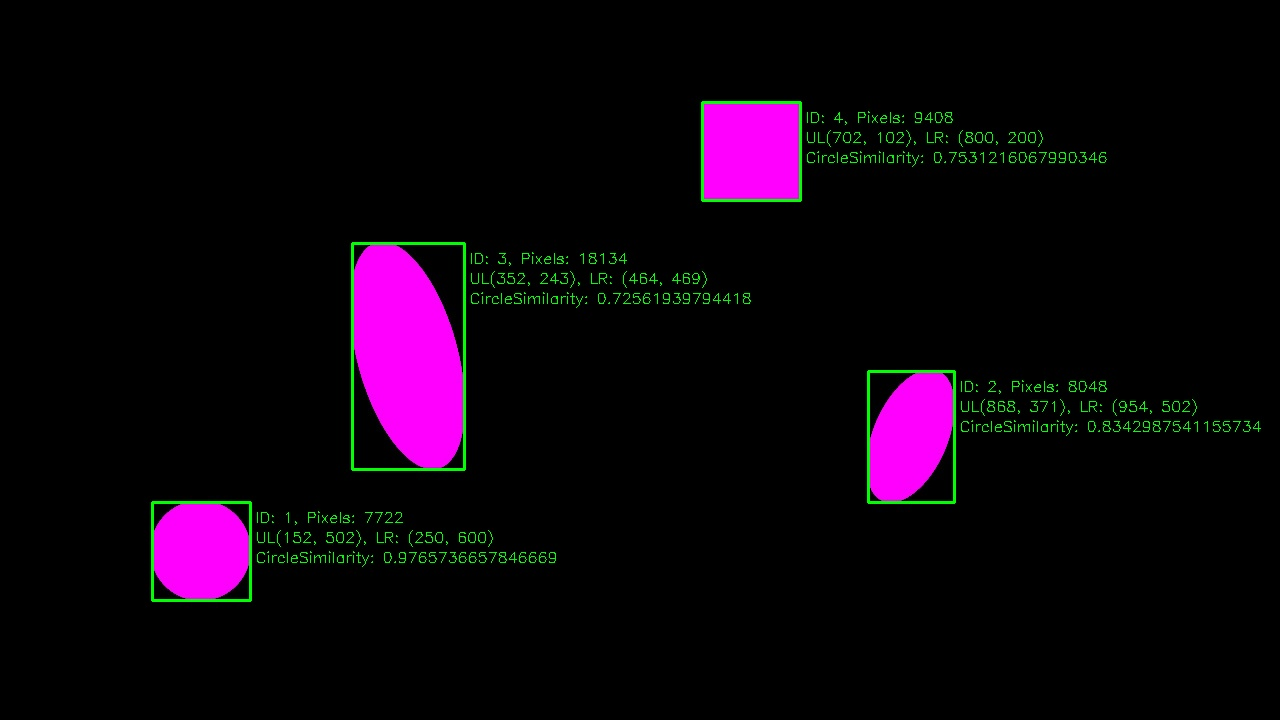
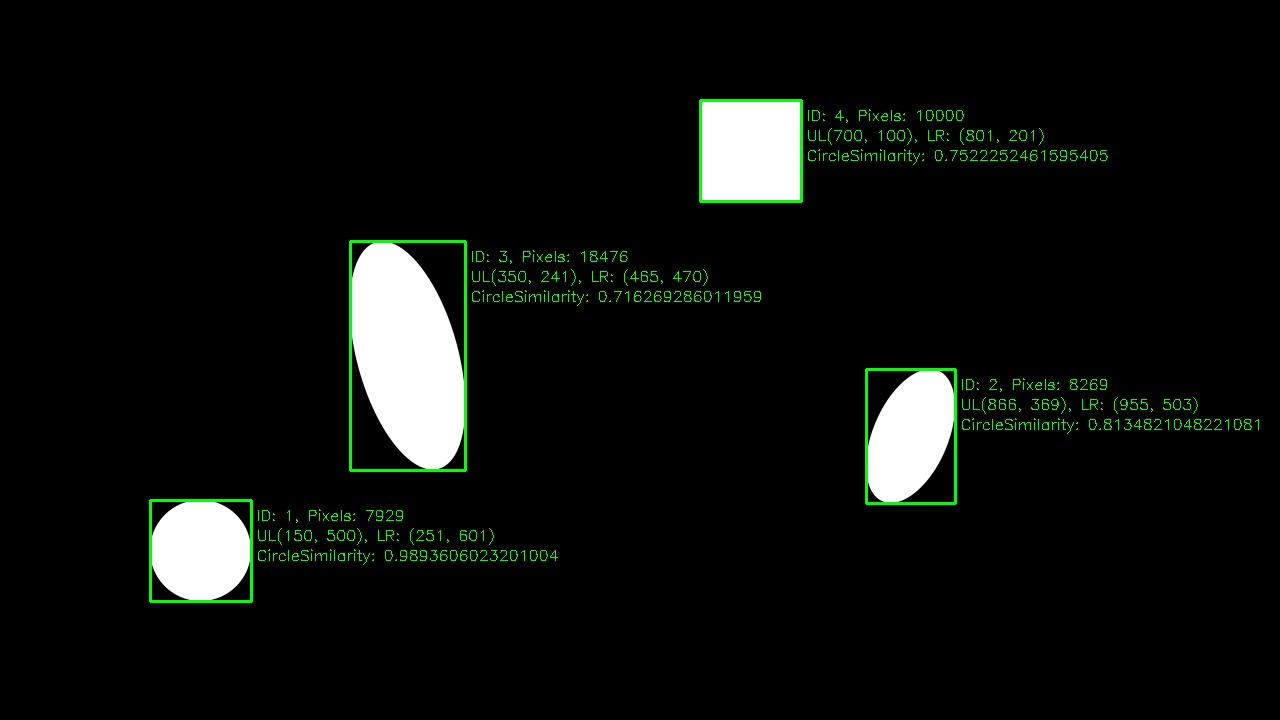
assign p:.\output\  output image path assing s:1000  show picture time.

diff --git a/circle_similarity.py b/circle_similarity.py
@@ -29,20 +29,6 @@ for p0 in range(1, n):   # skip first exe name
             print(f"Directory already exists: {result_image_path}")
 
 
-# show_result_image = 1  #  0  no show, none >0 :show n mS
-# 設定目錄路徑
-
-dut_path = './DUT/'  # dut 圖片位置
-dir_path_0 = os.path.dirname(os.path.dirname(dut_path))
-
-if not os.path.exists(dut_path):
-    # Create the directory if it does not exist
-    os.makedirs(dut_path)
-    print(f"Created directory: {dut_path}")
-else:
-    print(f"Directory already exists: {dut_path}")
-
-
 image = cv2.imread("input.jpg")  # Replace with your image file path
 height, width, _ = image.shape
 
@@ -81,7 +67,7 @@ for i, contour in enumerate(contours):
     circle_similarity=1- abs(pixel_count-area)/area 
    
     # Print color block information
-    print(f"Color block {i+1}, UL, {top_left},LR, {bottom_right}, Pixel Count, {int(pixel_count)},circle:Similarity,{circle_similarity}")
+    print(f"block,{i+1},x0,{x},y0,{y},x1,{x+w},y1,{y+h},Px_cnt, {int(pixel_count)},Similarity,{circle_similarity}")
     
     # Draw rectangle around each color block
     cv2.rectangle(image, top_left, bottom_right, (0, 255, 0), 2)
